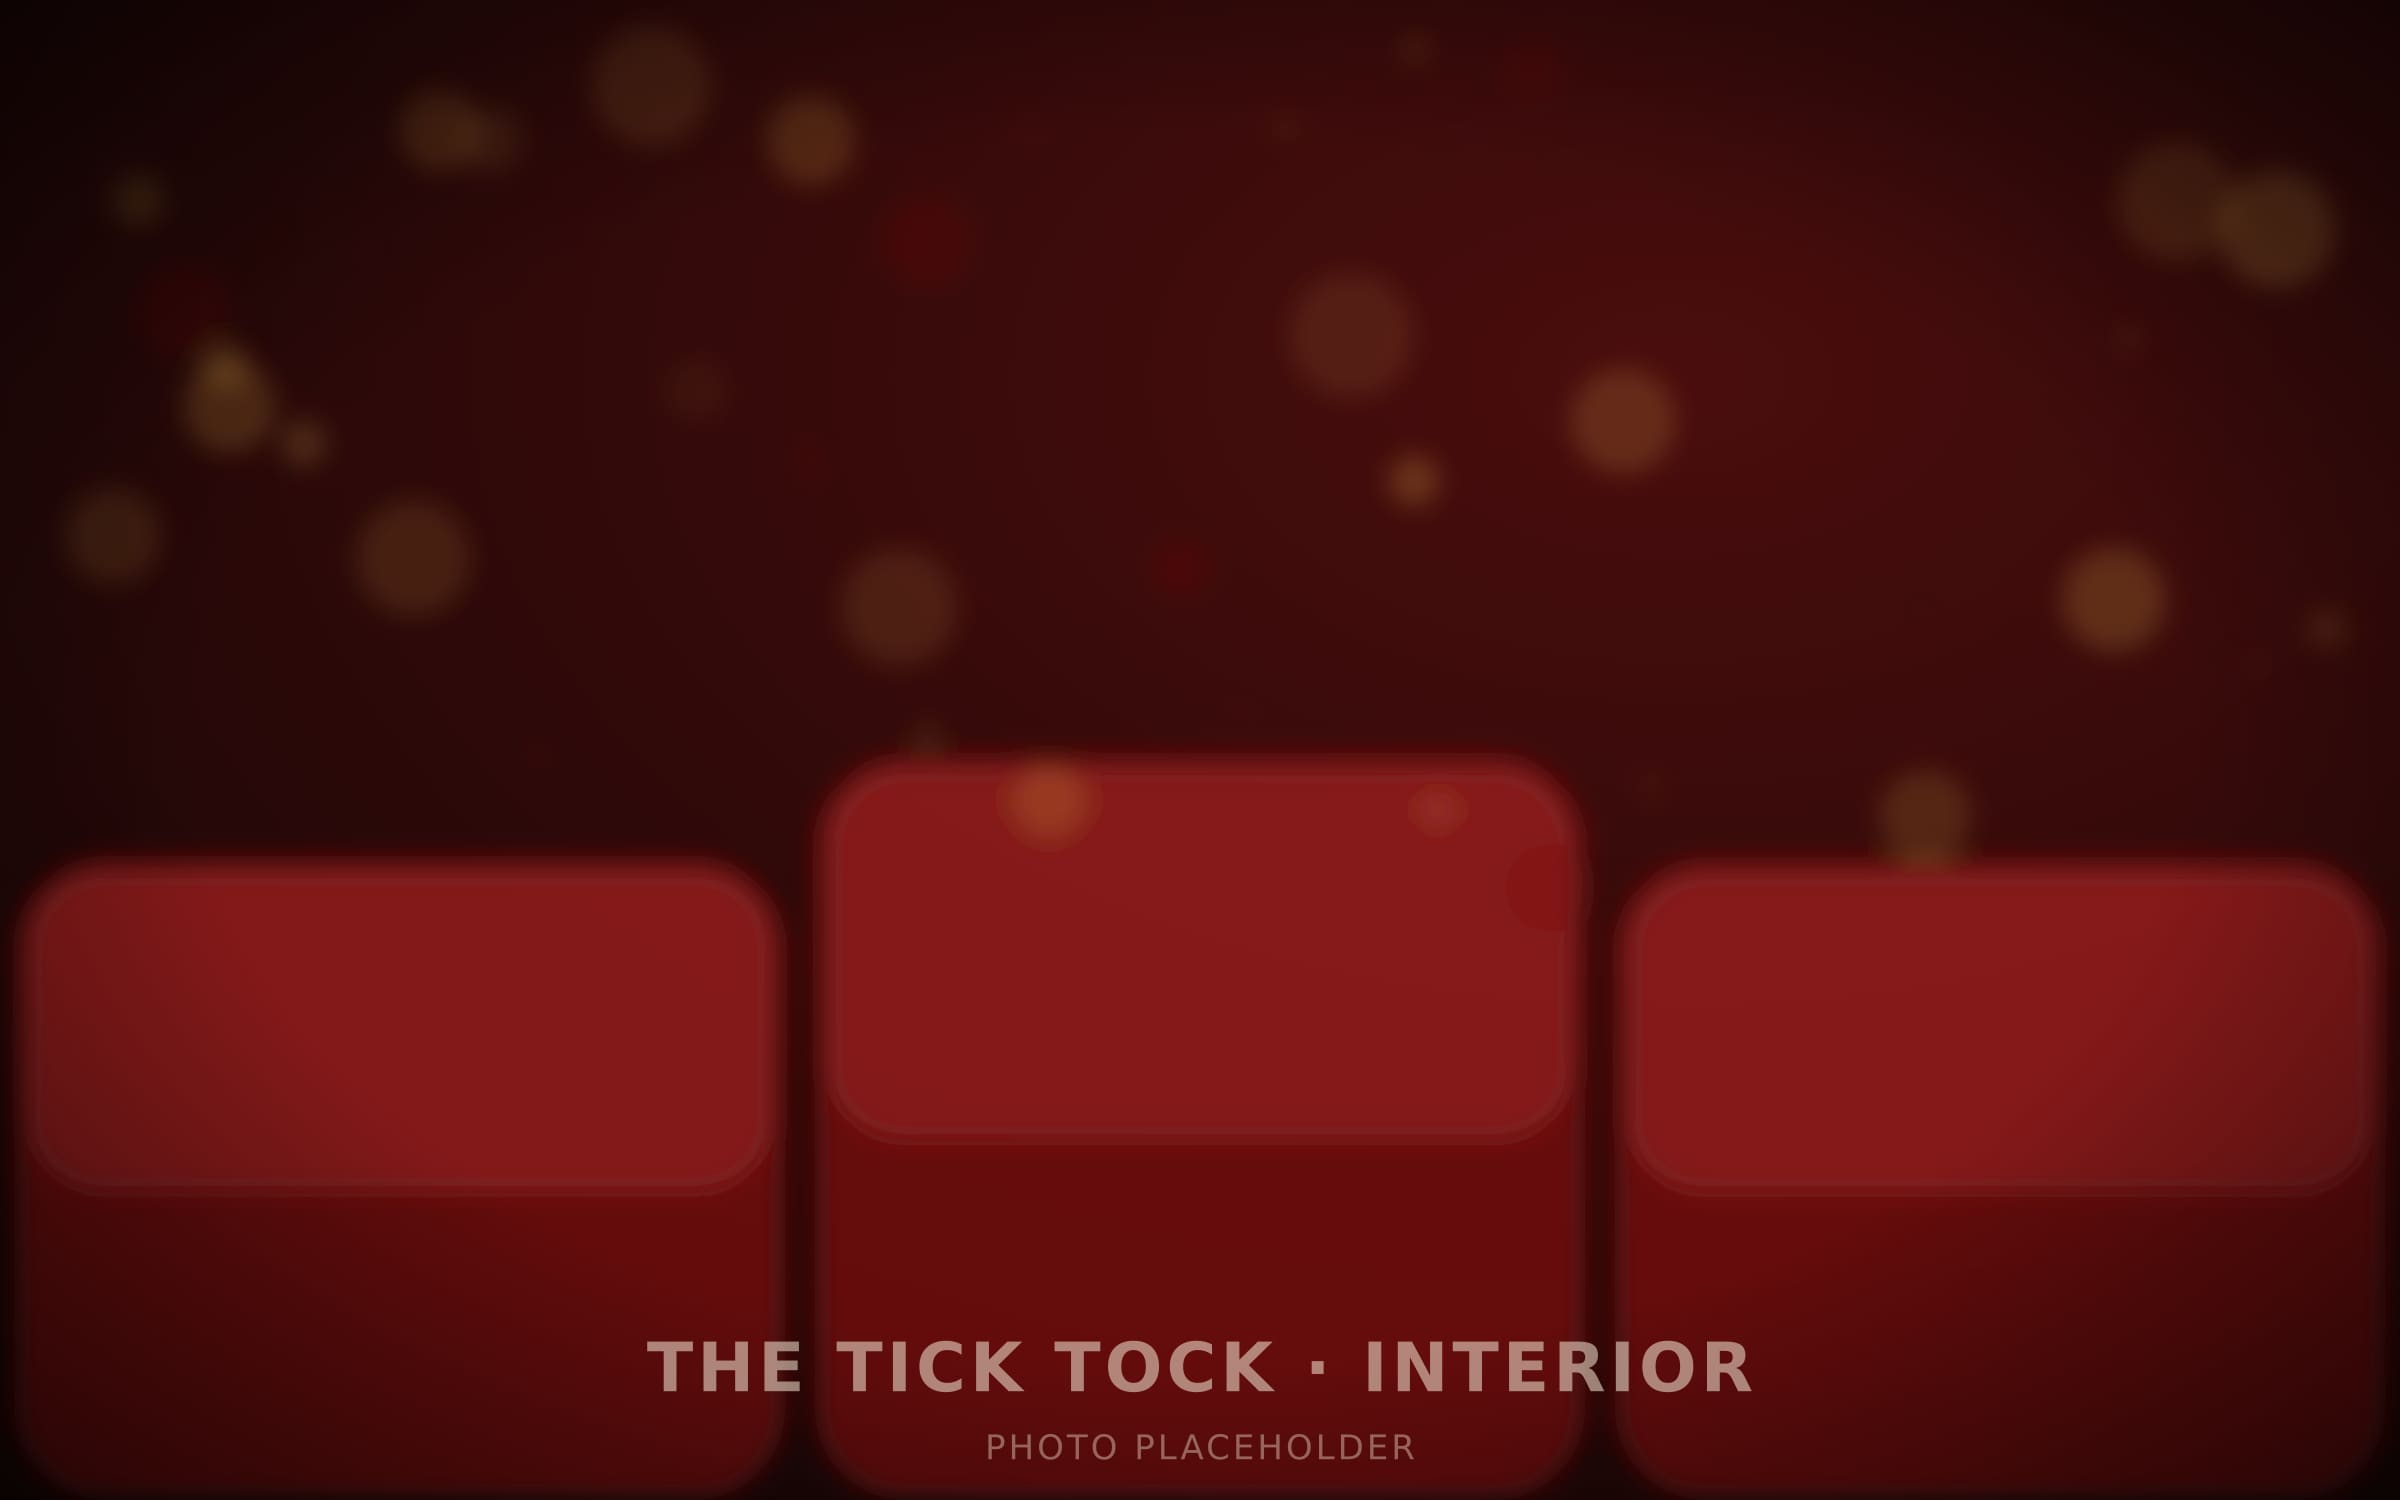
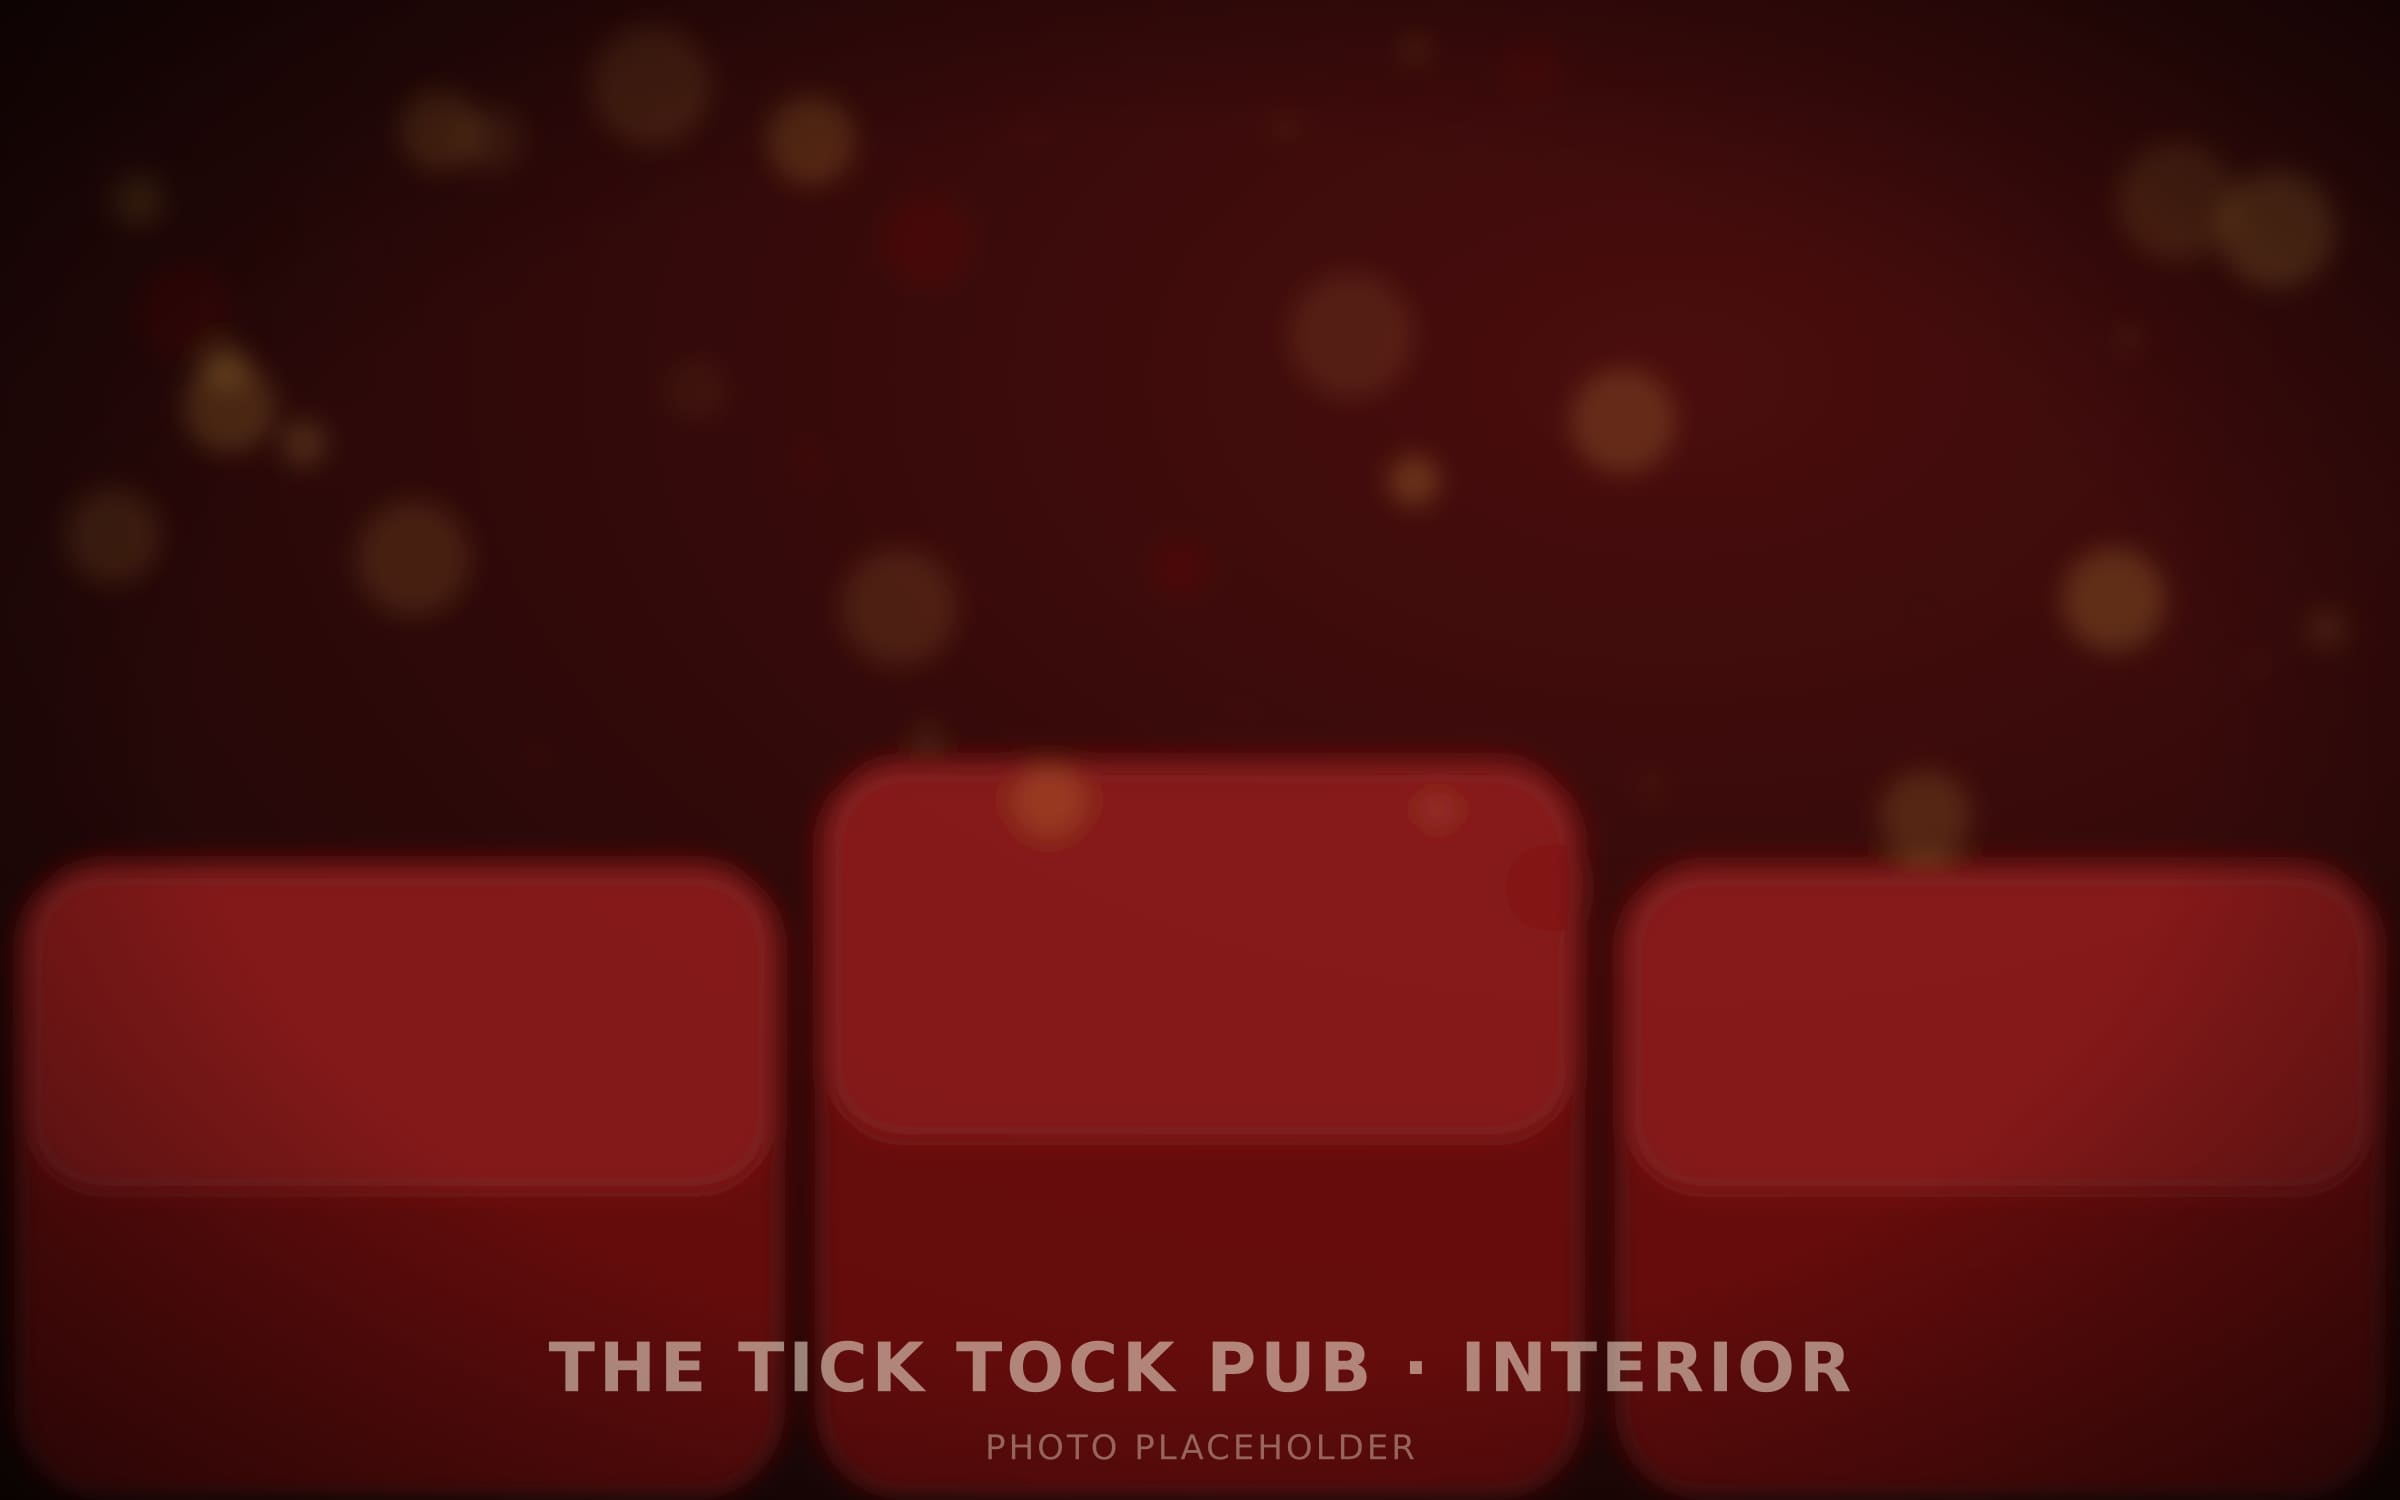
Use The Tick Tock Pub at 11 Hodskin St everywhere
Map embed and directions now search the street address alone so Google
pins the building instead of a different business listing. The nav and
footer show the full name, and the nav status badge is hidden on phones
so the menu button always fits.

Claude-Session: https://claude.ai/code/session_01Ef2avjxyQUCGCvBhszbHaK

Changed region(s): [[0.2188, 0.8893, 0.7812, 0.9507]]

diff --git a/content/site.ts b/content/site.ts
@@ -34,7 +34,6 @@ export type SiteImage = {
 
 export const site = {
   name: "The Tick Tock Pub",
-  shortName: "The Tick Tock",
   tagline: "Canton's late-night tradition",
   description:
     "The Tick Tock Pub is Canton, NY's late-night college bar and dance floor: red booths, two bars, a DJ, and the night everybody ends up at.",
@@ -43,11 +42,7 @@ export const site = {
   timezone: "America/New_York",
 
   address: {
-    // The property is 9–11 Hodskin St (per 2024 local news coverage of the sale);
-    // listings use 9 or 11 interchangeably.
-    street: "9–11 Hodskin St",
-    /** Single street number used for map searches and directions */
-    mapStreet: "11 Hodskin St",
+    street: "11 Hodskin St",
     city: "Canton",
     region: "NY",
     postalCode: "13617",
@@ -114,7 +109,7 @@ export const site = {
   space: {
     heading: "The Space",
     body: [
-      "Everybody calls it the Ticker. Oxblood leather booths worn soft by generations of Thursdays, warm wood floors, and the caricatures, murals and fireplaces that make it unmistakably the Tock.",
+      "Everybody calls it the Ticker. Oxblood leather booths worn soft by generations of Thursdays, warm wood floors, and the caricatures, murals and fireplaces that make it unmistakably the Tick Tock.",
       "Two bars, so the line is never as bad as it looks. Grab a booth up front, then follow the bass to the back, where the DJ runs the floor until last call.",
     ],
     features: [
@@ -169,9 +164,9 @@ export function fullAddress() {
   return `${a.street}, ${a.city}, ${a.region} ${a.postalCode}`;
 }
 
+/** Map searches use the street address alone so Google pins the right building. */
 export function mapsQuery() {
-  const a = site.address;
-  return encodeURIComponent(`Tick Tock, ${a.mapStreet}, ${a.city}, ${a.region} ${a.postalCode}`);
+  return encodeURIComponent(fullAddress());
 }
 
 /** How to refer to the Instagram account in copy: the handle if known, else "Instagram". */

diff --git a/components/Nav.tsx b/components/Nav.tsx
@@ -30,9 +30,9 @@ export default function Nav() {
       }`}
     >
       <nav aria-label="Main" className="mx-auto flex h-16 max-w-7xl items-center justify-between px-4 sm:px-6">
-        <a href="#top" className="flex items-center gap-2 font-display text-lg text-cream-50">
+        <a href="#top" className="flex items-center gap-2 whitespace-nowrap font-display text-base text-cream-50 sm:text-lg">
           <ClockMark />
-          <span>Tick Tock</span>
+          <span>{site.name}</span>
         </a>
 
         <ul className="hidden items-center gap-6 lg:flex">
@@ -49,7 +49,9 @@ export default function Nav() {
         </ul>
 
         <div className="flex items-center gap-3">
-          <OpenBadge className="hidden sm:inline-flex" />
+          <span className="hidden sm:block">
+            <OpenBadge />
+          </span>
           <a
             href={site.instagram.url}
             target="_blank"

diff --git a/components/TheSpace.tsx b/components/TheSpace.tsx
@@ -12,7 +12,7 @@ export default function TheSpace() {
       <div className="relative z-10 mx-auto max-w-7xl px-4 sm:px-6">
         <div className="grid gap-12 lg:grid-cols-[1fr_1.2fr] lg:gap-16">
           <div className="lg:sticky lg:top-28 lg:self-start">
-            <SectionHeading eyebrow="Inside the Tock" title={site.space.heading} align="left" />
+            <SectionHeading eyebrow="Inside the Pub" title={site.space.heading} align="left" />
             <div data-reveal className="space-y-5 text-lg leading-relaxed text-cream-200">
               {site.space.body.map((p) => (
                 <p key={p}>{p}</p>

diff --git a/components/Footer.tsx b/components/Footer.tsx
@@ -8,7 +8,7 @@ export default function Footer() {
       <div className="relative z-10 mx-auto max-w-7xl px-4 sm:px-6">
         <div className="grid gap-10 md:grid-cols-3">
           <div>
-            <p className="font-display text-3xl text-varsity">The Tick Tock</p>
+            <p className="font-display text-3xl text-varsity">{site.name}</p>
             <p className="mt-2 font-chalk text-lg text-brass-300">{site.tagline}</p>
           </div>
           <div className="space-y-2 text-cream-200">

diff --git a/components/ThisWeek.tsx b/components/ThisWeek.tsx
@@ -17,7 +17,7 @@ export default function ThisWeek() {
         <SectionHeading
           eyebrow="On Tap"
           title="This Week"
-          intro="Three nights, one tradition. Here's what's going down at the Tock."
+          intro="Three nights, one tradition. Here's what's going down at the Tick Tock."
         />
         <ul data-reveal-stagger className="grid gap-10 md:grid-cols-3 md:gap-8">
           {site.thisWeek.map((ev) => (

diff --git a/README.md b/README.md
@@ -57,7 +57,7 @@ This is a **concept preview** to show the owner. With `site.preview: true` in `c
 
 What's based on public sources:
 
-- **Address: 9–11 Hodskin St, Canton, NY 13617.** Local coverage of the 2024 sale describes the property as 9–11 Hodskin Street, which is why listings show both numbers. Map and directions links search for "Tick Tock, 11 Hodskin St".
+- **Name and address: The Tick Tock Pub, 11 Hodskin St, Canton, NY 13617** (confirmed). The map and directions links search by street address only, so Google pins the building instead of another business listing.
 - **"The Ticker":** the students' nickname for the bar, used by St. Lawrence's student paper.
 - **Caricatures, murals and fireplaces:** reported as features the new ownership is keeping.
 - **Hours: Thursday–Saturday, 10pm–2am,** as provided for this build.
@@ -72,12 +72,11 @@ Sources:
 
 Search `content/site.ts` for `[CONFIRM]`.
 
-1. **Name:** the site uses "The Tick Tock Pub". Public listings also say "Tick Tock Inn" or just "Tick Tock".
-2. **Instagram:** no official account found. While `instagram.handle` is `null`, the site just says "Instagram" and links to instagram.com.
-3. **Events and specials:** the three nights (Throwback Thursday, Friday Night Lights, Saturday Main Event) and their specials are samples.
-4. **Cover, dress code, parking:** neutral wording, not an official policy. No cover price is stated.
-5. **Photos:** all images are generated on-brand placeholders labelled "PHOTO PLACEHOLDER" (see `scripts/generate-placeholders.mjs`). The share image (`og.jpg`) shows the wordmark.
-6. **Domain:** on Vercel the deployment URL is picked up automatically (`lib/siteUrl.ts`). Set `NEXT_PUBLIC_SITE_URL` once there's a custom domain.
-7. **Map:** uses the keyless Google Maps embed, so no API key or billing is needed.
-8. **Branding:** the collegiate look is generic and original. There are no St. Lawrence University or SUNY Canton names, logos, seals, or official colors.
-9. **Framework version:** the brief asked for Next.js 15+. This uses the current stable release, 16.x.
+1. **Instagram:** no official account found. While `instagram.handle` is `null`, the site just says "Instagram" and links to instagram.com.
+2. **Events and specials:** the three nights (Throwback Thursday, Friday Night Lights, Saturday Main Event) and their specials are samples.
+3. **Cover, dress code, parking:** neutral wording, not an official policy. No cover price is stated.
+4. **Photos:** all images are generated on-brand placeholders labelled "PHOTO PLACEHOLDER" (see `scripts/generate-placeholders.mjs`). The share image (`og.jpg`) shows the wordmark.
+5. **Domain:** on Vercel the deployment URL is picked up automatically (`lib/siteUrl.ts`). Set `NEXT_PUBLIC_SITE_URL` once there's a custom domain.
+6. **Map:** uses the keyless Google Maps embed, so no API key or billing is needed.
+7. **Branding:** the collegiate look is generic and original. There are no St. Lawrence University or SUNY Canton names, logos, seals, or official colors.
+8. **Framework version:** the brief asked for Next.js 15+. This uses the current stable release, 16.x.
